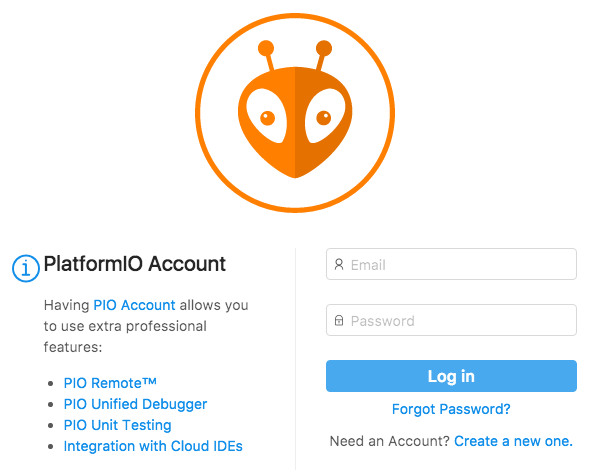
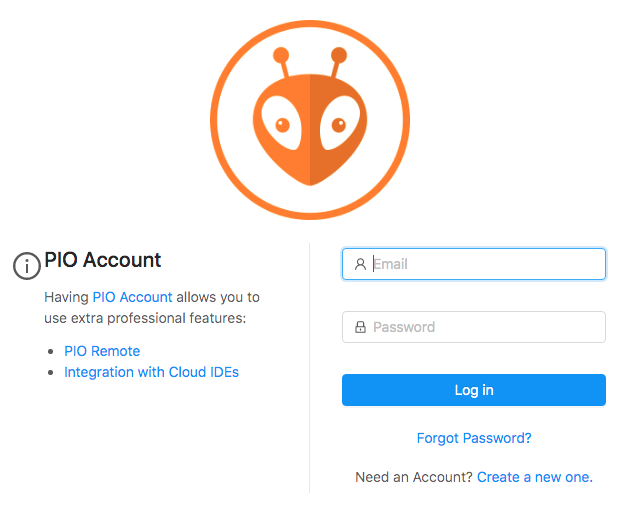
Open source PIO Unified Debugger and Unit Testing

diff --git a/_templates/footer.html b/_templates/footer.html
@@ -28,7 +28,7 @@
       <div>\
         <ul class="nav navbar-nav">\
           <li class="dropdown">\
-            <a role="button" data-target="#" href="https://platformio.org/platformio-ide" data-toggle="dropdown" aria-haspopup="true" aria-expanded="false"><i class="fa fa-heart fa-lg"></i>Open Source<span class="caret"></span>\
+            <a role="button" data-target="#" href="https://platformio.org/platformio-ide" data-toggle="dropdown" aria-haspopup="true" aria-expanded="false"><i class="fa fa-rocket fa-lg"></i>Get Started<span class="caret"></span>\
             </a>\
             <ul class="dropdown-menu" role="menu">\
               <li role="menuitem"><a href="https://platformio.org/platformio-ide"><i class="fa fa-cube"></i>PlatformIO IDE</a></li>\
@@ -36,30 +36,24 @@
               <li role="separator" class="divider"></li>\
               <li role="menuitem"><a href="https://docs.platformio.org/page/librarymanager/index.html"><i class="fa fa-code"></i>Library Management</a></li>\
               <li role="separator" class="divider"></li>\
+              <li role="menuitem"><a href="https://docs.platformio.org/page/tutorials/index.html" target="_blank"><i class="fa fa-graduation-cap"></i>Tutorials</a></li>\
               <li role="menuitem"><a href="https://github.com/platformio/platformio-examples" target="_blank"><i class="fa fa-graduation-cap"></i>Project Examples</a></li>\
-              <li role="separator" class="divider"></li>\
-              <li role="menuitem"><a href="https://platformio.org/install/integration"><i class="fa fa-cube"></i>Desktop IDEs Integration</a></li>\
-              <li role="menuitem"><a href="https://docs.platformio.org/page/ci/index.html"><i class="fa fa-refresh"></i>Continuous Integration</a></li>\
-              <li role="separator" class="divider"></li>\
-              <li role="menuitem"><a href="https://docs.platformio.org/page/projectconf/advanced_scripting.html"><i class="fa fa-wrench"></i>Advanced Scripting API</a></li>\
             </ul>\
           </li>\
           <li class="dropdown">\
-            <a role="button" data-target="#" href="https://platformio.org/pricing" data-toggle="dropdown" aria-haspopup="true" aria-expanded="false"><i class="fa fa-cube fa-lg"></i>\
-              PIO Plus<span class="caret"></span>\
+            <a role="button" data-target="#" href="https://docs.platformio.org/page/plus/pio-remote.html" data-toggle="dropdown" aria-haspopup="true" aria-expanded="false"><i class="fa fa-cube fa-lg"></i>\
+              Products<span class="caret"></span>\
             </a>\
             <ul class="dropdown-menu" role="menu">\
-              <li role="menuitem"><a href="https://docs.platformio.org/page/plus/pio-remote.html"><i class="fa fa-globe"></i>PIO Remote&trade;</a></li>\
+              <li role="menuitem"><a href="https://docs.platformio.org/page/plus/pio-remote.html"><i class="fa fa-globe"></i>PIO Remote</a></li>\
               <li role="menuitem"><a href="https://docs.platformio.org/page/plus/debugging.html"><i class="fa fa-bug"></i>PIO Unified Debugger</a></li>\
               <li role="menuitem"><a href="https://docs.platformio.org/page/plus/unit-testing.html"><i class="fa fa-puzzle-piece"></i>PIO Unit Testing</a></li>\
               <li role="separator" class="divider"></li>\
-              <li role="menuitem"><a href="https://platformio.org/install/integration"><i class="fa fa-cloud"></i>Cloud IDEs Integration</a></li>\
+              <li role="menuitem"><a href="https://docs.platformio.org/page/librarymanager/index.html"><i class="fa fa-code"></i>Library Management</a></li>\
               <li role="separator" class="divider"></li>\
-              <li role="menuitem"><a href="https://platformio.org/pricing#solution-white-labeling"><i class="fa fa-cube"></i>"White Label" IDE</a></li>\
-              <li role="menuitem"><a href="https://platformio.org/pricing#enterprise-features"><i class="fa fa-briefcase"></i>Integration Services</a></li>\
-              <li role="menuitem"><a href="https://platformio.org/pricing#enterprise-features"><i class="fa fa-certificate"></i>Certification Program</a></li>\
-              <li role="separator" class="divider"></li>\
-              <li role="menuitem"><a href="https://platformio.org/support"><i class="fa fa-question-circle"></i>Premium Support</a></li>\
+              <li role="menuitem"><a href="/install/integration"><i class="fa fa-cube"></i>Desktop IDEs Integration</a></li>\
+              <li role="menuitem"><a href="/install/integration"><i class="fa fa-cloud"></i>Cloud IDEs Integration</a></li>\
+              <li role="menuitem"><a href="https://docs.platformio.org/page/ci/index.html"><i class="fa fa-refresh"></i>Continuous Integration</a></li>\
             </ul>\
           </li>\
           <li class="dropdown">\
@@ -75,7 +69,6 @@
           </li>\
         </ul>\
         <ul class="nav navbar-nav navbar-right">\
-          <li><a href="https://platformio.org/pricing"><i class="fa fa-shopping-cart fa-lg"></i>Pricing</a></li>\
           <li class="active"><a href="https://docs.platformio.org"><i class="fa fa-book fa-lg"></i>Docs</a></li>\
           <li><a href="https://community.platformio.org/"><i class="fa fa-comments-o fa-lg"></i>Community</a></li>\
           <li><a href="https://platformio.org/support"><i class="fa fa-question-circle fa-lg"></i>Support</a></li>\

diff --git a/plus/pio-account.rst b/plus/pio-account.rst
@@ -14,12 +14,9 @@
 PIO Account
 ===========
 
-Having **PIO Account** allows you to use extra professional features from
-`PIO Plus <https://pioplus.com/>`__:
+**PIO Account** is required for using:
 
-* :ref:`piodebug`
 * :ref:`pioremote`
-* :ref:`unit_testing`
 * Integration with :ref:`ide_cloud`
 
 A registration is **FREE**. No Credit Card Required.

diff --git a/plus/unit-testing.rst b/plus/unit-testing.rst
@@ -16,8 +16,6 @@
 PIO Unit Testing
 ================
 
-.. versionadded:: 3.0 (`PIO Plus <https://pioplus.com>`_)
-
 PIO Unit Testing allows segregating each part of the firmware/program and test
 that the individual parts are working correctly. Using |PIOUTE| you can
 execute the same tests on the local host machine (native), on the multiple

diff --git a/plus/pio-remote.rst b/plus/pio-remote.rst
@@ -19,8 +19,6 @@ PIO Remote
 
 **Your devices are always with you!**
 
-.. versionadded:: 3.2 (`PIO Plus <https://pioplus.com>`__)
-
 |PIORemote| allows you to work remotely with devices from
 *Anywhere In The World*. No matter where are you now! Run a small and
 cross-platform :ref:`cmd_remote_agent` on a remote machine and you are able to

diff --git a/plus/debugging.rst b/plus/debugging.rst
@@ -18,8 +18,6 @@ PIO Unified Debugger
 
 **It Simply Works. Easier than ever before!**
 
-.. versionadded:: 3.4 (`PIO Plus <https://pioplus.com>`__)
-
 .. note::
 
   `Demo, discussions, request a support for new hardware. <https://community.platformio.org/t/finally-pio-unified-debugger-comes-to-vscode/4091>`_
